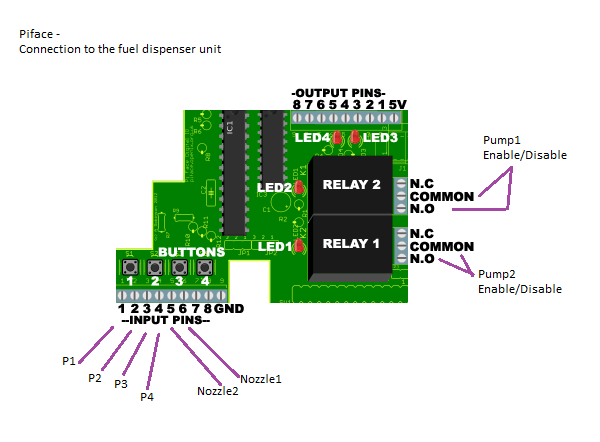
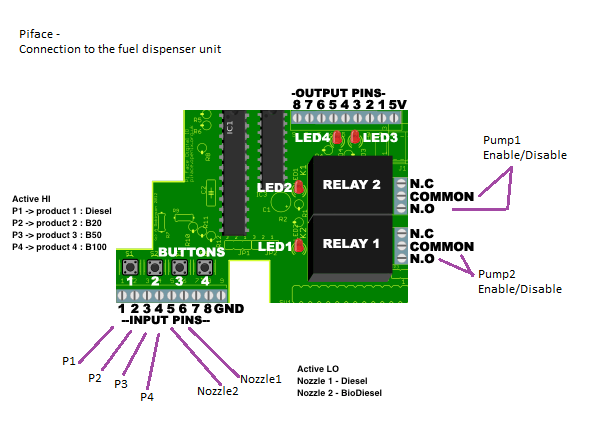
Fixed a typo and updated docs.

Changed region(s): [[0.0, 0.4412, 0.18, 0.5882], [0.48, 0.8235, 0.63, 0.9118]]

diff --git a/drivers/pump_driver/pump_driver.c b/drivers/pump_driver/pump_driver.c
@@ -126,7 +126,7 @@ static irqreturn_t gpio_rising_interrupt(int irq, void* dev_id) {
 			restored = 1;
 		}
 		else {
-			printk(KERN_ERR "Pump driver: wierd irq arg to the ISR");
+			printk(KERN_ERR "Pump driver: weird irq arg to the ISR");
 		}
 	}
 
